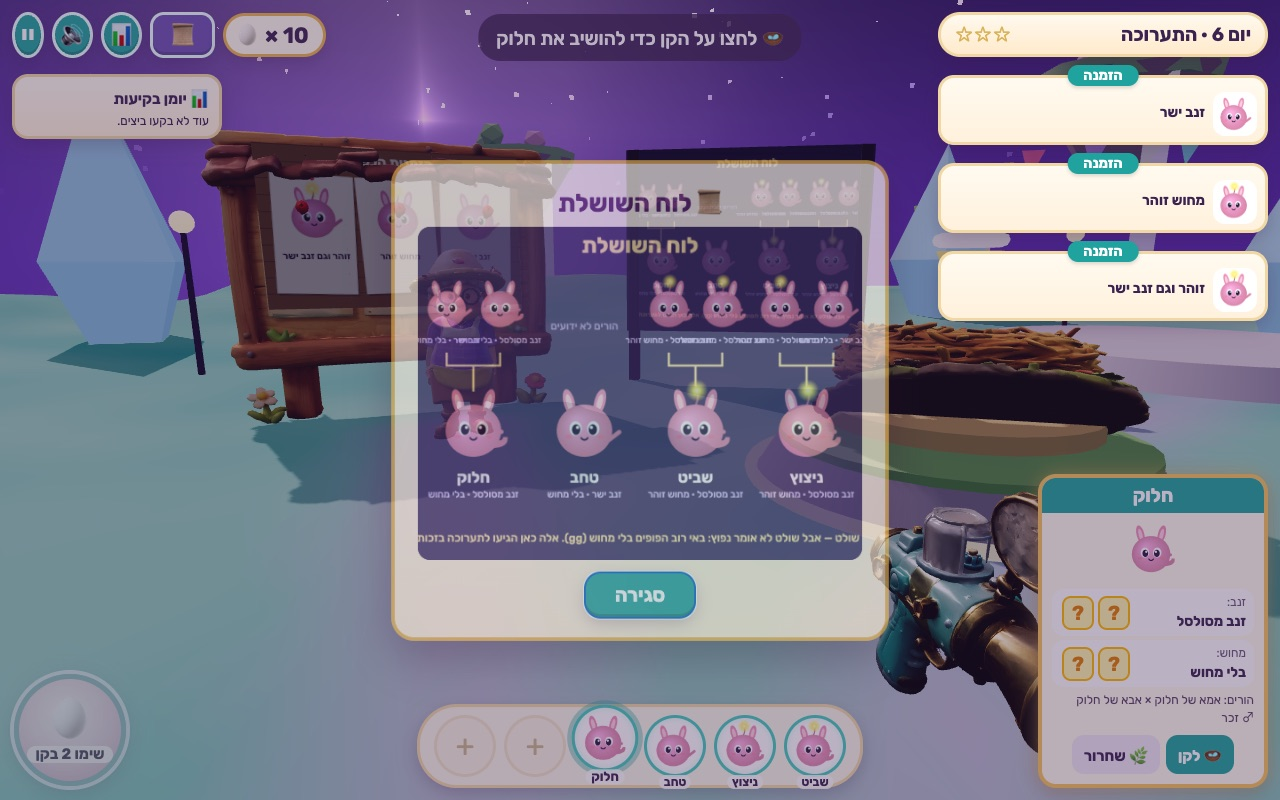
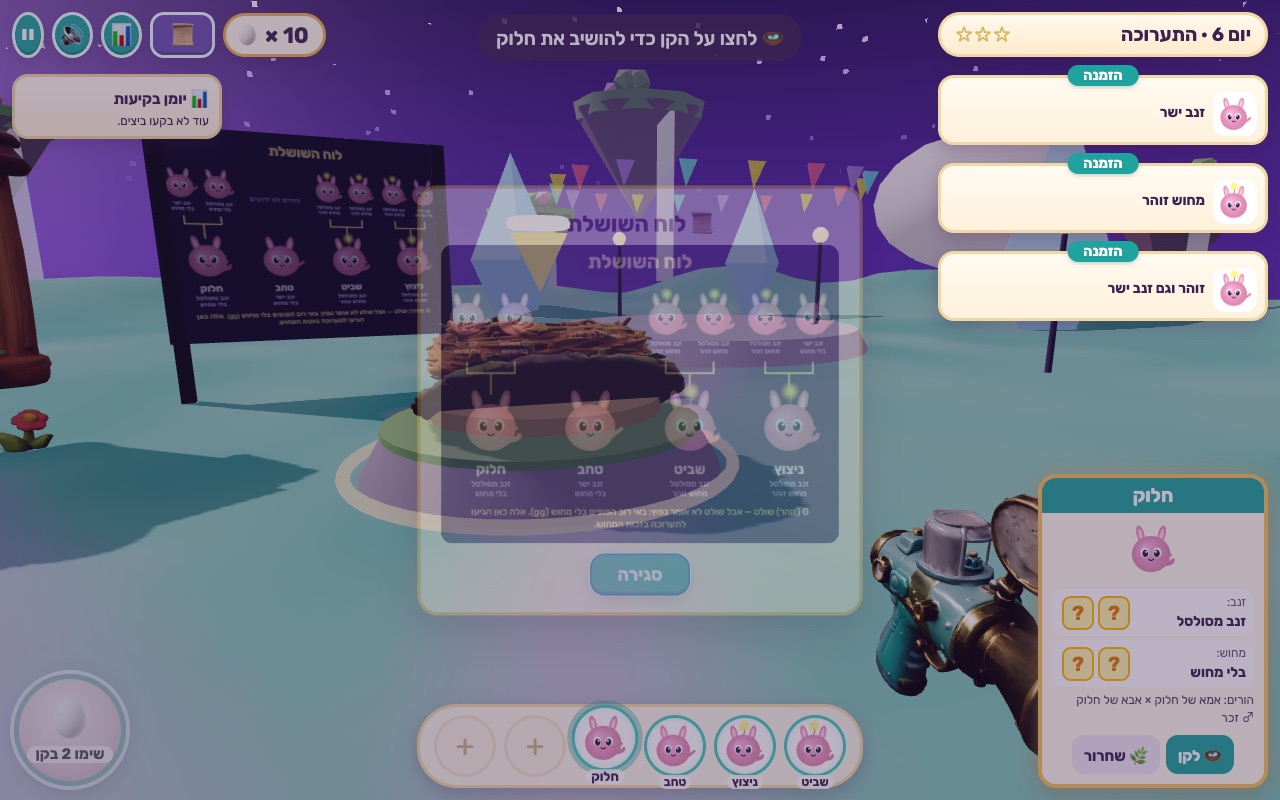
Playtest log, final captures, progress

diff --git a/PLAYTEST.md b/PLAYTEST.md
@@ -1,0 +1,87 @@
+# Gene Ranch — playtest and verification log
+
+What was actually checked, how, and what wasn't. Automation can't tell whether the game is fun or whether students learn from it; nothing here claims that.
+
+## Unit tests (`npm test`, vitest)
+
+45 tests, all passing on 26 Oct 2026:
+
+- **Genetics distributions** (8,000 seeded crosses each): Ee×Ee 1:2:1 / 3:1; test-cross 1:1; EE×ee all Ee; FˢFˢ×FᴰFᴰ all "both"; FˢFᴰ×FˢFᴰ 1:2:1; Fˢf×Fᴰf ¼ each (ABO analogue); two genes independent (joint ≈ product); sex 50/50; "¼ ≠ exactly one in four" (P(exactly one floppy in 4) ≈ 0.42); environment changes colour, not genotype; deterministic seeds.
+- **Deduction engine:** a floppy baby proves both parents Ee; upright-only test-cross keeps "E ?" with a (½)ⁿ streak; facts constrain cards; honest lens ranges; codominant cards; violet ⇒ pp.
+- **Every day** (400 seeds each, playing only through the Game API with what the cards show):
+  - Day 1 wins >95% within 8 + 4 bonus eggs; about (¾)⁸ ≈ 10% need the bonus.
+  - Day 2: a 3/3/4 test-cross plan wins >85% within 10 eggs. Guessing is impossible (the village needs a proven carrier from the wild candidates). Babies don't count.
+  - Day 3: test-crossing wins >85%. Delivering untested pinks fails ≈⅔ of the time, costs 3 eggs, and the message doesn't name the carrier.
+  - Day 4: SS×DD always gives "both"; the 1:2:1 family fits in 14 eggs; a family can't start from parents that can't give all three patterns.
+  - Day 5: lens odds ¼ vs ⅛ vs 0; the right plan wins >85% in 14 eggs; "breed the prettiest" never wins.
+  - Day 6: no lens, hints or auto cards; the pedigree board is enough to deduce Cc Gg / Cc gg; the reasoning plan wins >85% in 10 eggs; "two prettiest" wins 0%; wild creatures can't fill show orders.
+- **Plumbing:** hatch timing respects game time; a full belt makes room for a newborn that fits an order; render text.
+
+## Real-click playthroughs (Playwright, `scripts/playall.mjs`)
+
+Static production build, Chromium headless with SwiftShader software GL, real mouse clicks on 3D creatures, the nest and HUD buttons, with time advanced by `window.advanceTime`. The strategy reads only what's on screen.
+
+| Run | Result |
+|---|---|
+| Days 1–6 at 1280×800 | All six won (3 stars each in the final runs), no console errors |
+| Day 1 at 390×844 (phone viewport) | Won, no console errors |
+
+These runs found real bugs, all fixed:
+- a belt-overflow trap;
+- bonus eggs granted while a winning baby existed;
+- the nest's hit volume swallowing taps on parents;
+- the deliver button covered when there were three orders;
+- pink reading as violet under the show-island light;
+- reversed "½ × ½ = ¼";
+- stale UI timers.
+
+Real captures are in [docs/screenshots/](docs/screenshots/); see [docs/VISUAL_REVIEW.md](docs/VISUAL_REVIEW.md).
+
+## Independent science review
+
+A separate agent, which didn't design the game, checked the model and every science sentence against the Workbook snapshots. Full report: `gene-ranch-science-review.md` in the shared side-session notes folder. The model was found sound. The must-fixes and should-fixes applied are listed in [CURRICULUM.md](CURRICULUM.md#independent-science-review-26-oct).
+
+## Fresh-eyes playtest
+
+Another agent that hadn't seen the design played the title, Day 1, Day 2 (×3) and Day 3 with deliberate mistakes at 1280×800, plus Day 1 on a 390×844 touch viewport. Report: `gene-ranch-playtest.md` in the shared notes folder. It played a build from *before* the science fixes.
+
+- **Understood in 10 s:** "suck up creatures, put two in the nest, hatch eggs, give grandma what she ordered".
+- **Liked:** the first floppy baby lighting its cell, the journal bars, the "grandkids came out blue!" reveal.
+- **Confusions and fixes:**
+
+| Confusion | Fix |
+|---|---|
+| Day 3 marked carriers "⭐ matches" | Pure-pair orders never celebrate; known carriers are never offered |
+| Day 2 won by a baby in one egg | Only a proven wild candidate counts |
+| Out-of-eggs blamed luck | Per-order odds; 0% pairs are named |
+| Stale hatch panel after retry or on the next day | Cleared |
+| Phone: hatch panel hidden, egg count missing, nest off-screen, WASD line | Card hides while the hatch panel is up; count on the egg button; view turns to the nest; touch-only intro line |
+| "Big ears" day asking for floppy ears | Renamed "סוד האוזניים" |
+| Pip "from yesterday" | Now "from the ranch" |
+| "ריבוע פאנט" never named | Square labelled |
+| Hint silently cost a star | Hint warns |
+| Silent pocket overflow | Toast |
+| Drag-look too sensitive | Gentler |
+| Slow win card | Faster |
+| Long runs of identical hatches | Tap the egg again to skip |
+| ביצות typo | Fixed |
+
+- **Not changed:** heavy terminology in the first minute (kept, but the intro is shorter); names repeat across days (babies are per-day).
+
+A short re-check of these fixes was requested from the same playtester (results appended to its report if completed).
+
+## Not verified
+
+- **Performance on a real GPU:** FPS was only seen in software GL. No real-GPU or phone FPS number is claimed.
+- **Real touch devices:** only a 390×844 Chromium viewport with mouse/touch emulation, not an actual phone.
+- **Audio:** WebAudio synth sounds weren't listened to by a person.
+- **Long-term behaviour:** `localStorage` progress and learning logs were exercised but not inspected across browsers.
+- **Whether it's fun, or whether students learn:** needs real kids.
+
+## Bundle (measured, `npm run build`)
+
+- JS 767 KB (203 KB gzipped).
+- CSS 22 KB.
+- Rubik woff/woff2 subsets.
+- 6 GLB models ≈ 8.4 MB.
+- Everything is local; nothing is fetched at runtime.

diff --git a/docs/VISUAL_REVIEW.md b/docs/VISUAL_REVIEW.md
@@ -35,14 +35,15 @@ Targets: ChatGPT gpt-image mockups in [visual-targets/](visual-targets/) (prompt
 ## Other captures
 
 - [06-day4-codominance.jpg](screenshots/06-day4-codominance.jpg): FˢFˢ × FᴰFᴰ — every cell FˢFᴰ, babies show stripes AND spots (not a blend).
-- [09-day6-pedigree.jpg](screenshots/09-day6-pedigree.jpg): show island (night palette, crystals, bunting), pedigree board in the world and as an overlay. (This capture predates the two-line label fix.)
+- [09-day6-pedigree.jpg](screenshots/09-day6-pedigree.jpg): show island (night palette, crystals, bunting), pedigree board in the world (two-line labels) and as an overlay caught mid fade-in.
+- [13-day2-proven-carrier.jpg](screenshots/13-day2-proven-carrier.jpg), [14-day3-pure-line.jpg](screenshots/14-day3-pure-line.jpg): Day 2 proven carrier ready to deliver; Day 3 pure-line delivery.
 - [05-day1-win.jpg](screenshots/05-day1-win.jpg), [10-day6-win.jpg](screenshots/10-day6-win.jpg): win cards with stars and the science takeaway.
 - [11-phone-hatch.jpg](screenshots/11-phone-hatch.jpg), [12-phone-start.jpg](screenshots/12-phone-start.jpg): 390×844.
 
 ## Remaining deviations (honest list)
 
 1. No fur: creatures are smooth Tripo bodies, not the fluffy look of the mockups.
-2. The Tripo nest is a flattened straw ring on a procedural stone; up close the weave is coarse.
+2. The Tripo nest is a flattened straw ring on a procedural stone; up close the weave is coarse and a dark band inside the ring is still visible from some angles.
 3. The Punnett square is smaller on screen than in mockup 2, and on phones its top can sit under the order card.
 4. Babies that hop out of a full belt can wander close to the camera and cover part of the view.
 5. Set dressing is sparser and lower-poly than the painted mockups; lighting is simpler (no bloom, software GL in captures).

diff --git a/progress.md b/progress.md
@@ -14,6 +14,10 @@
 - Day 2 now needs a proven carrier from the wild candidates (budget 10); Day 3 third star needs test-cross evidence; RNG seeds scrambled (nearby seeds gave identical rosters).
 - All six days have been won through real clicks (desktop) and Day 1 at 390×844; 45 unit tests pass.
 
-## Next
-- Fresh-eyes playtest report → fix confusions.
-- Final capture set, docs/VISUAL_REVIEW.md, PLAYTEST.md.
+- Fresh-eyes playtest (on a pre-science-fix snapshot) → confusions fixed (see PLAYTEST.md); re-check requested.
+- Final build: all six days won through real clicks at 1280×800 and Day 1 at 390×844 in one run, no console errors; 45 unit tests pass. VISUAL_REVIEW.md, PLAYTEST.md, screenshots committed.
+
+## Open / next
+- Port 5201/4201 still held by goblin-kitchen (not ours) at the end of the session; dev server left running on 5221.
+- Real-GPU FPS and real-phone testing not done.
+- Ideas: fur shader, nest interior, island unlock map, carrying a ranch between days.
